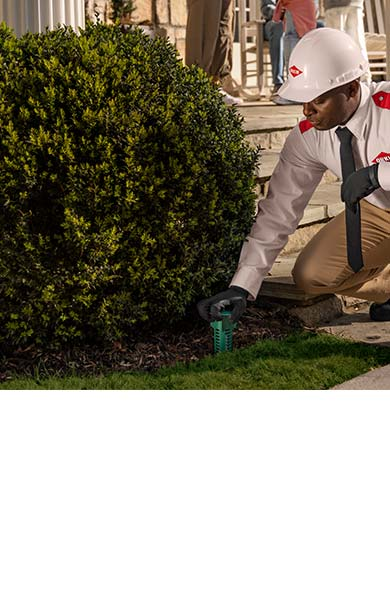
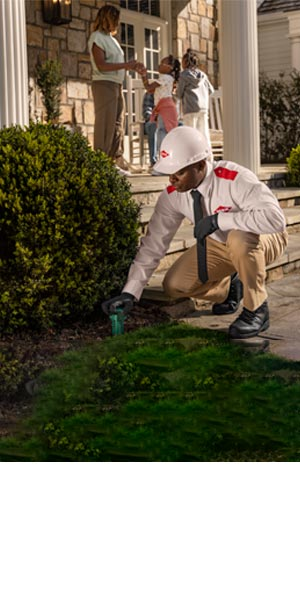
Orkin_Termites_HVC_300X600

diff --git a/Orkin2024/Orkin_Termites_HVC/Orkin_Termites_HVC_300X600/scripts/script.js b/Orkin2024/Orkin_Termites_HVC/Orkin_Termites_HVC_300X600/scripts/script.js
@@ -16,13 +16,13 @@ function init_animation() {
 
 	$cta_width = $("#cta").width() + 10;
 }
-
+ 
 function frame_one() {
 	gsap.to("#copy1", 0.8, { x: 0, alpha: 1, ease: Power2.easeOut });
 }
 
 function frame_two() {
-	gsap.to("#bg2", 10, { scale: 1, x: 0, ease: Linear.easeNone });
+	gsap.to("#bg2", 10, { x: 0, y: -60, scale: 1, ease: Linear.easeNone });
 	gsap.to("#green_angle", 1.5, { autoAlpha: 1, y: '0', ease: Linear.easeNone })
 	gsap.to("#copy1", 0.6, { alpha: 0, ease: Power2.easeOut });
 	gsap.to("#bg1", 0.6, { alpha: 0, delay: 0.25, ease: Power2.easeOut });

diff --git a/Orkin2024/Orkin_Termites_HVC/Orkin_Termites_HVC_300X600/styles/style.css b/Orkin2024/Orkin_Termites_HVC/Orkin_Termites_HVC_300X600/styles/style.css
@@ -132,9 +132,9 @@ svg {
 	/* background-position: -153px -168px;
     background-size: 170%;
     width: 490px; */
-	width: 390px;
+	width: 300px;
 	height: 600px;
-	transform: rotate(0.035deg) scale(1.1) translateX(-90px);
+	transform: rotate(0.035deg) scale(1.1);
 }
 
 #cta {
